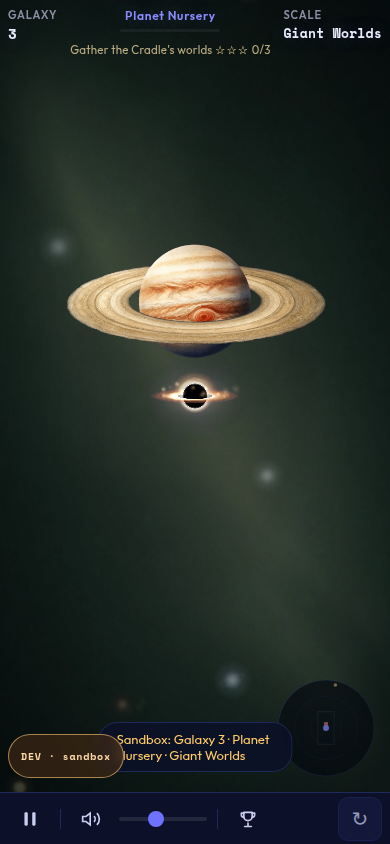
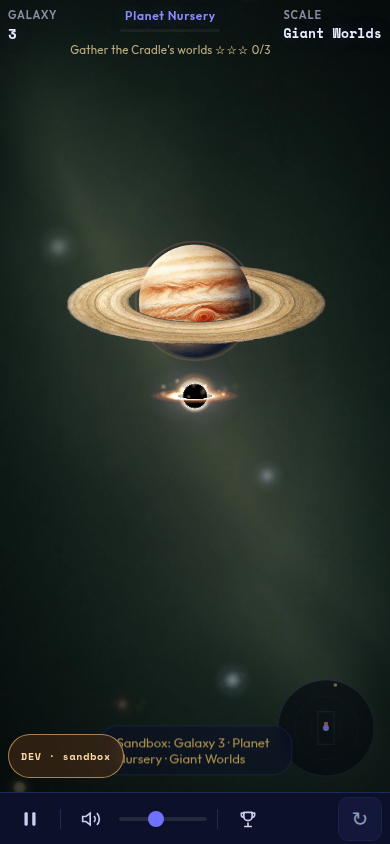
v9.9.0: restore the too-big ring and gold disc on planets and moons
Those cues stay until their own art step. The nursery bite check always
eats a freighter, so it no longer depends on which world object is largest.

Changed region(s): [[0.3077, 0.8626, 0.7077, 0.9242], [0.6462, 0.3389, 0.6769, 0.3697], [0.5538, 0.4621, 0.5846, 0.4929]]

diff --git a/js/render.js b/js/render.js
@@ -197,11 +197,9 @@ export function drawEntities(ctx, entities, w, h, camX, camY, playerRadius, time
     }
 
     // v6 big catches: a soft gold halo as you near something's size, steady once it fits.
-    // Planets and moons are only their painted layers. No disc and no ring on them.
-    const layered = e.type === "planet" || e.type === "moon";
     const tooBig = playerRadius <= e.radius * eatRatio;
     const nearQ = playerRadius / (e.radius * eatRatio);
-    if (!layered && e.type !== "craft" && e.bigFish && !e.consuming && nearQ > BIG_HALO_FROM) {
+    if (e.type !== "craft" && e.bigFish && !e.consuming && nearQ > BIG_HALO_FROM) {
       const ready = !tooBig;
       const k = ready ? 1 : (nearQ - BIG_HALO_FROM) / (1 - BIG_HALO_FROM);
       const a = (0.14 + 0.22 * k) * spawnAlpha * (0.85 + breath * 0.15);
@@ -216,7 +214,7 @@ export function drawEntities(ctx, entities, w, h, camX, camY, playerRadius, time
       ctx.fill();
     }
 
-    if (!layered && tooBig && !e.consuming) {
+    if (tooBig && !e.consuming) {
       const pulse = 0.26 + Math.sin(time * 0.0016 + e.rotation * 3) * 0.08;
       ctx.globalAlpha = spawnAlpha;
       ctx.beginPath();
